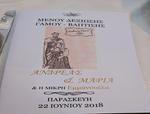
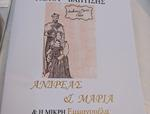
Added crop to avoid squashing portait images

diff --git a/admin/generate-thumbnails.js b/admin/generate-thumbnails.js
@@ -1,8 +1,7 @@
 var fs = require('fs');
 var gm = require('gm');
 
-var forceOverwrite = false;
-// var forceOverwrite = true;
+var forceOverwrite = false;  // If changing logic and want to regenerate all then set to true
 var imagesDirSubPath = "..\\images\\posts";
 var sourceBasePath = __dirname + "\\" + imagesDirSubPath;
 var newSizes = [
@@ -52,17 +51,38 @@ var buildTargetFilename = function(filename, sizeName) {
 	return filename.substring(0,extensionIndex+1) + sizeName + filename.substring(extensionIndex, filename.length);
 }
 
-var resizeIfNotAlreadyExists = function(source, dest, size) {
+var resizeIfNotAlreadyExists = function(source, dest, newWidth) {
 	fs.exists(dest, function(exists) {
 		if(!exists || forceOverwrite) {
-			console.log("Resizing (" + size + "px): " + source);
-      console.log(" -> " + dest);
-      var height = Math.round(size / 4) * 3;  // force aspect ratio 4x3
-			gm(source).resize(size, height, "!").write(dest, function (err) { if (err) { console.log(err); } });
+			checkOrientationAndResizeImage(source, dest, newWidth);
 		} else {
       console.log("Skipping (thumbnail already exists): " + source);      
     }
 	});
+}
+
+var checkOrientationAndResizeImage = function(source, dest, newWidth) {
+  gm(source)
+    .size(function (err, size) {
+      if (err) { console.log(err); }
+      resizeImage(source, dest, newWidth, size);      
+    });
+}
+
+var resizeImage = function(source, dest, newWidth, size) {
+  var newHeight = Math.round(newWidth / 4) * 3;  // force aspect ratio 4x3
+  if(size.width < size.height) {
+    var cropHeight = size.width * 0.75;
+    var cropY = (size.height - cropHeight) / 2
+    gm(source)
+      .crop(size.width, cropHeight, 0, cropY)   // Crop portrain images to reduce squashing
+      .resize(newWidth, newHeight, "!")
+      .write(dest, function (err) { if (err) { console.log(err); } });
+  } else {
+    gm(source)
+      .resize(newWidth, newHeight, "!")
+      .write(dest, function (err) { if (err) { console.log(err); } });
+  }
 }
 
 findImageFiles(sourceBasePath, function(err, imagesPaths) {
